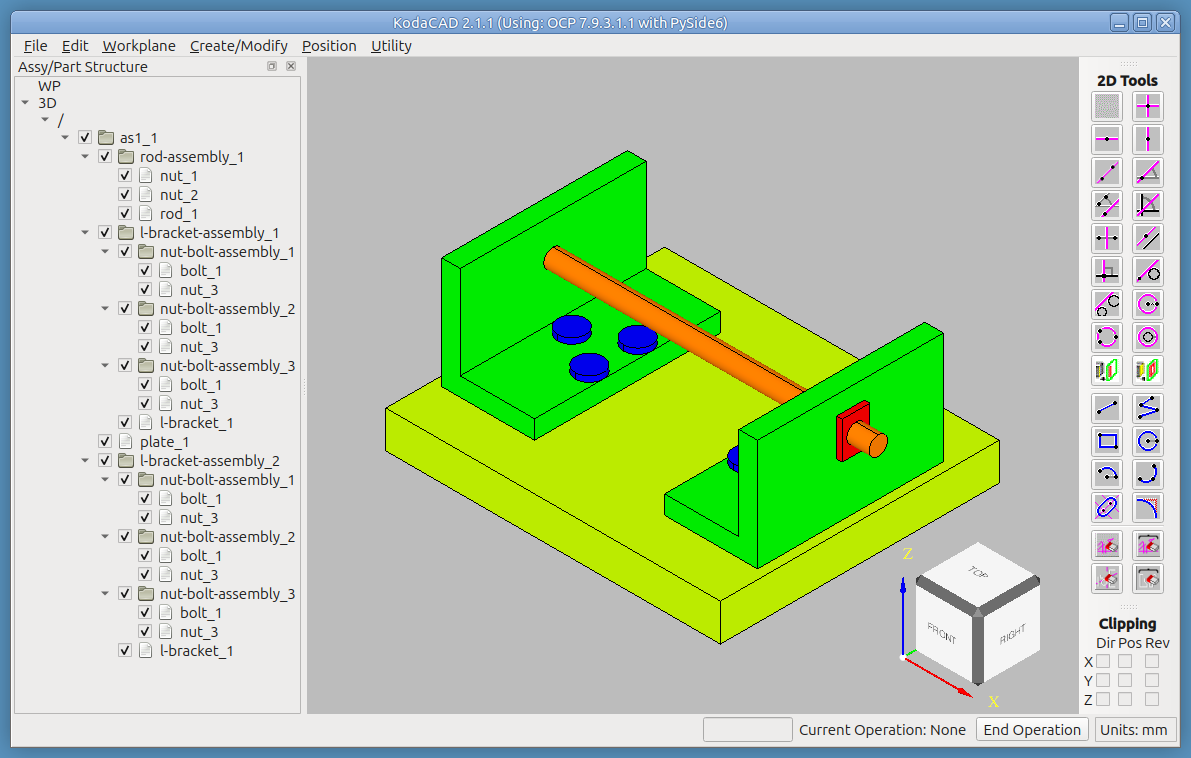
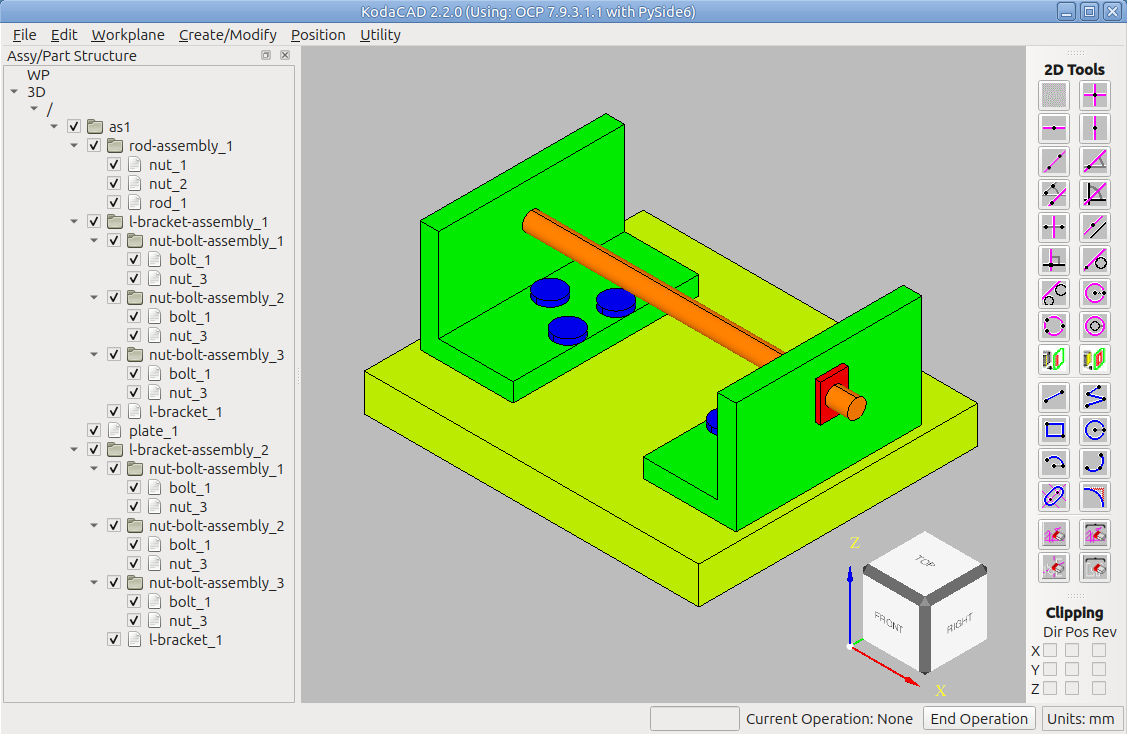
Session 153: Version 2.2.0

diff --git a/version.py b/version.py
@@ -1,5 +1,20 @@
 """Single source of truth for the KodaCAD application version.
 
+2.2.0 -- 2026-10-12 (Sessions 149-152)
+* Native session format: File -> Save Session now writes a .kcad file
+  (a zip holding the STEP model plus workplanes.json), so workplanes,
+  their sketch geometry and construction geometry survive a save and
+  reload. Plain .stp/.step files still load; File -> Export STEP writes
+  a plain STEP for other CAD programs.
+* Workplane profile geometry is stored as plain data (lines, circles,
+  arcs) with edges derived from it -- lean to save, and ready for
+  curves (NURBS) that can't be recovered from their edges.
+* Display-only face coloring (for tutorial illustrations).
+* Undo/Redo now keeps the active part, and the face-pick dialogs keep
+  working across it.
+* Shell repairs an invalid MakeThickSolid result instead of showing a
+  ghost of the unshelled part.
+
 2.1.2 -- 2026-10-08 (Session 143)
 * Bi-directional Pull
 * Boolean (Fuse + Subtract)
@@ -34,4 +49,4 @@ save/reload analytic-selection pick fix, naming round-trips, STEP
 header customization.
 """
 
-APP_VERSION = "2.1.2"
+APP_VERSION = "2.2.0"

diff --git a/README.md b/README.md
@@ -8,11 +8,12 @@ A from-scratch 3D CAD application
 * Patterned after HP's dynamic modeling lineage (ME-30 → SolidDesigner)
 * Part creation workflow: workplane → sketch → extrude/revolve → modify 
 * Intended to meet the basic requirements in a typical CAD workflow:
-    * Start a new session or load a previous one (saved in STEP format)
+    * Start a new session or load a previous one (saved as a `.kcad`
+      file: the STEP model plus your workplanes)
     * Import components in STEP format
     * Position them within an assembly structure
     * Create simple mounting plates & brackets
-    * Save session in STEP format
+    * Save session as `.kcad`, or export the 3D model as plain STEP
 
 Designed for users who want to assemble, modify, and create
 3D mechanical parts and assemblies using a scriptable, open-source
@@ -78,11 +79,48 @@ Dependencies (managed automatically by uv):
 
 ### Loading a STEP file
 
+### Saving and loading
+
+KodaCAD's native session file is a **`.kcad`** file. It is an ordinary
+zip archive holding two things side by side, in the spirit of NumPy's
+`.npz`:
+
+```
+mypart.kcad
+  mypart.stp        the 3D model -- a standard STEP file
+  workplanes.json   the workplanes, plain text
+```
+
+The STEP half carries everything a STEP file can: the assembly
+structure, part names, colors, shared instances. The JSON half carries
+what STEP has no place for: each workplane's position in 3D, its
+sketched profile geometry (lines, circles, arcs), its construction
+geometry, which workplanes are hidden, and which one was active. The
+file is plain data -- nothing in it is executed when it loads -- and
+because it is a zip, you can always open it with any archive tool and
+pull out the `.stp` by hand.
+
+**File → Save Session**
+Writes a `.kcad` file holding the model *and* your workplanes. The file
+is written to a temporary name and swapped into place only when
+complete, so a failed save never damages an existing file.
+
 **File → Load Session**
-Loads a previously saved KodaCAD session or any STEP file with assembly
-structure. *Replaces the entire current document* -- whatever was open
-before is gone. The loaded file's own content becomes the session, with
-no wrapping or nesting involved.
+Opens a `.kcad` file -- or any plain `.stp` / `.step` file with
+assembly structure. *Replaces the entire 3D document* -- whatever was
+open before is gone. The loaded file's own content becomes the session,
+with no wrapping or nesting involved.
+
+What happens to workplanes depends on the file. A `.kcad` file brings
+its own workplanes and replaces the ones on screen. A plain STEP file
+has no workplanes to bring, so it **leaves your current workplanes
+alone** -- handy for loading a part or assembly and sketching on it
+with the workplanes you already have set up.
+
+**File → Export STEP**
+Writes the 3D model alone, as a plain STEP file, for opening in other
+CAD applications or sharing with people who don't use KodaCAD. No
+workplanes are included.
 
 **File → Import STEP**
 *Adds* a STEP file as a new component under the current `/`, alongside
@@ -92,12 +130,36 @@ an existing root, so it's the one that needs to guard against a saved
 session's own `/` wrapper getting nested under the current one --
 which it does automatically (see below).
 
-**File → Save Session**
-Saves the current state to a STEP file. This is KodaCAD's native save
-format -- STEP files can be reloaded exactly as saved, and opened in
-any other CAD application.
+#### What a session does *not* save
 
-**Why repeated save/load/import cycles stay clean:** Save strips any
+- **Undo/Redo history.** Loading starts you with a clean history.
+- **Display-only face colors** (Color Faces...), which are an
+  illustration aid, not part of the model.
+- **A workplane's link to the face it was placed on.** The workplane
+  keeps its position in space; it just no longer remembers which face
+  it came from.
+
+#### Undo and Redo apply to the 3D model only
+
+Undo (Ctrl+Z) and Redo (Ctrl+Y) step through changes to the **3D
+model** -- extrudes, pulls, fillets, shells, positioning, renaming and
+so on. **Workplanes and their sketch geometry are not part of that
+history.** Drawing a line, deleting an element, or repositioning a
+workplane cannot be undone with Ctrl+Z, and undoing a 3D operation
+will not rewind your sketches. Workplanes are your construction
+scaffolding rather than the model itself, and they live outside the
+document that Undo/Redo manages.
+
+In practice this means: Undo is safe to use freely on the model without
+disturbing your sketches, but a workplane edit is final until you make
+the opposite edit yourself. Since a workplane's state is only stored
+when you save, **Save Session before experimenting** with sketch work
+you might want back -- the `.kcad` file is your safety net for
+workplanes.
+
+#### Why repeated save/load/import cycles stay clean
+
+Save strips any
 redundant `/` wrapper before writing, so a saved file never contains
 one to begin with. Load Session replaces the whole document rather
 than nesting anything, so there's nothing for a wrapper to accumulate
@@ -213,6 +275,7 @@ kodacad2/
   mainwindow.py       MainWindow, TreeView
   docmodel.py         XDE document model (core -- read this first)
   workplane.py        2D workplane geometry
+  wp_io.py            .kcad session container + workplane save/restore
   m2d.py              2D sketch toolbar
   koda_viewport.py    OCP 3D viewport (AIS_ViewController)
   stepanalyzer.py     STEP structure analysis utility
@@ -231,6 +294,8 @@ kodacad2/
     chassis/            build an assembly from scratch (Quaoar's chassis)
     lathe/              organizing and navigating a large assembly
     jack/               sketch a jack-o'-lantern face, then carve a pumpkin
+    defeaturing/        remove holes and features, heal the gap
+    lofting/            loft through a workplane set, then work it over
   pyproject.toml      uv project file
 ```
 

diff --git a/docs/DEVELOPMENT_LOG.md b/docs/DEVELOPMENT_LOG.md
@@ -7145,3 +7145,7 @@ Untested in OCP.
 - The HEALED report still shows shell 2 FORWARD / negative volume yet valid=True, so the per-shell volume line in `_report_shape` is not a reliable validity signal; trust `valid=`.
 - Root cause (why MakeThickSolid rejects the filleted COMPOUND input) still unknown. If healing ever fails: unwrap the compound to its solid before shelling.
 - Retired noise: the `[display-audit]` calls in redraw_after_shape_replace and the automatic INPUT/RESULT `[CheckPart]` reports in shell(). `_display_audit` and `_report_shape` remain; Utility -> Check Active Part still reports on demand.
+
+## Session 153 -- version 2.2.0, README, plain-STEP load keeps workplanes
+- version.py -> 2.2.0 (minor: new capability, nothing breaking); README gains "Saving and loading", "What a session does not save", and "Undo and Redo apply to the 3D model only".
+- Doug verified: loading a .kcad (with workplanes) and then a plain .stp as a session leaves the .kcad's workplanes in the tree. Intended behavior (wp_state is None -> restore_wp_state not called); documented in the README. Loading a .kcad replaces the workplanes.
